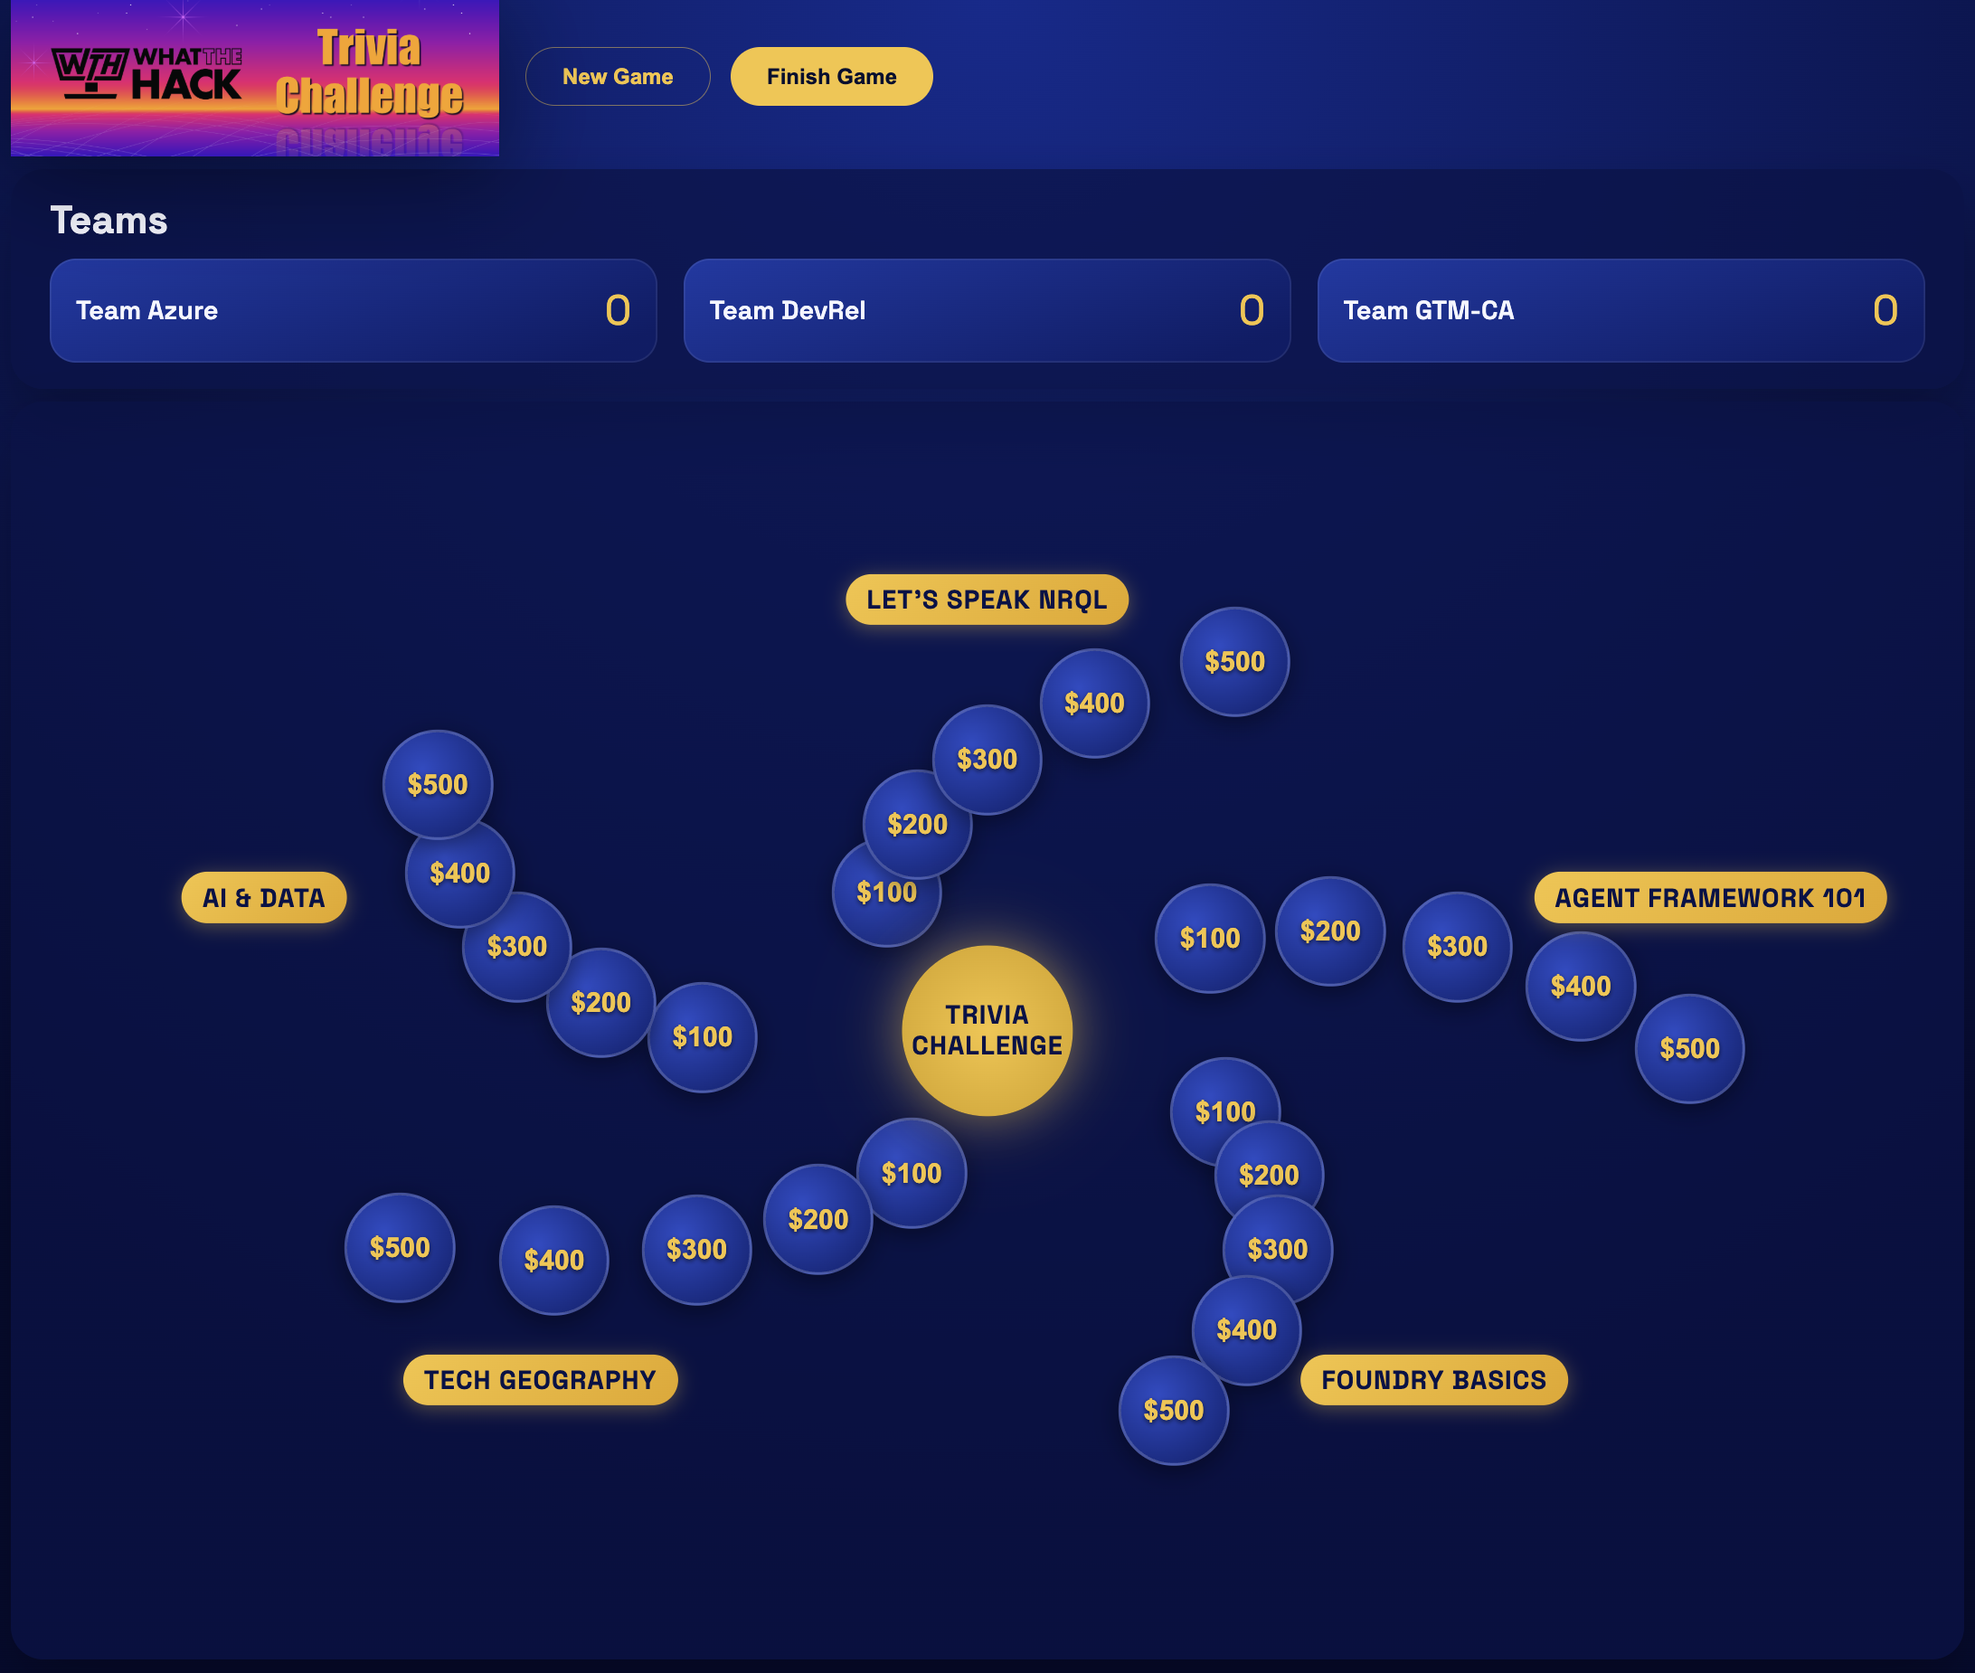
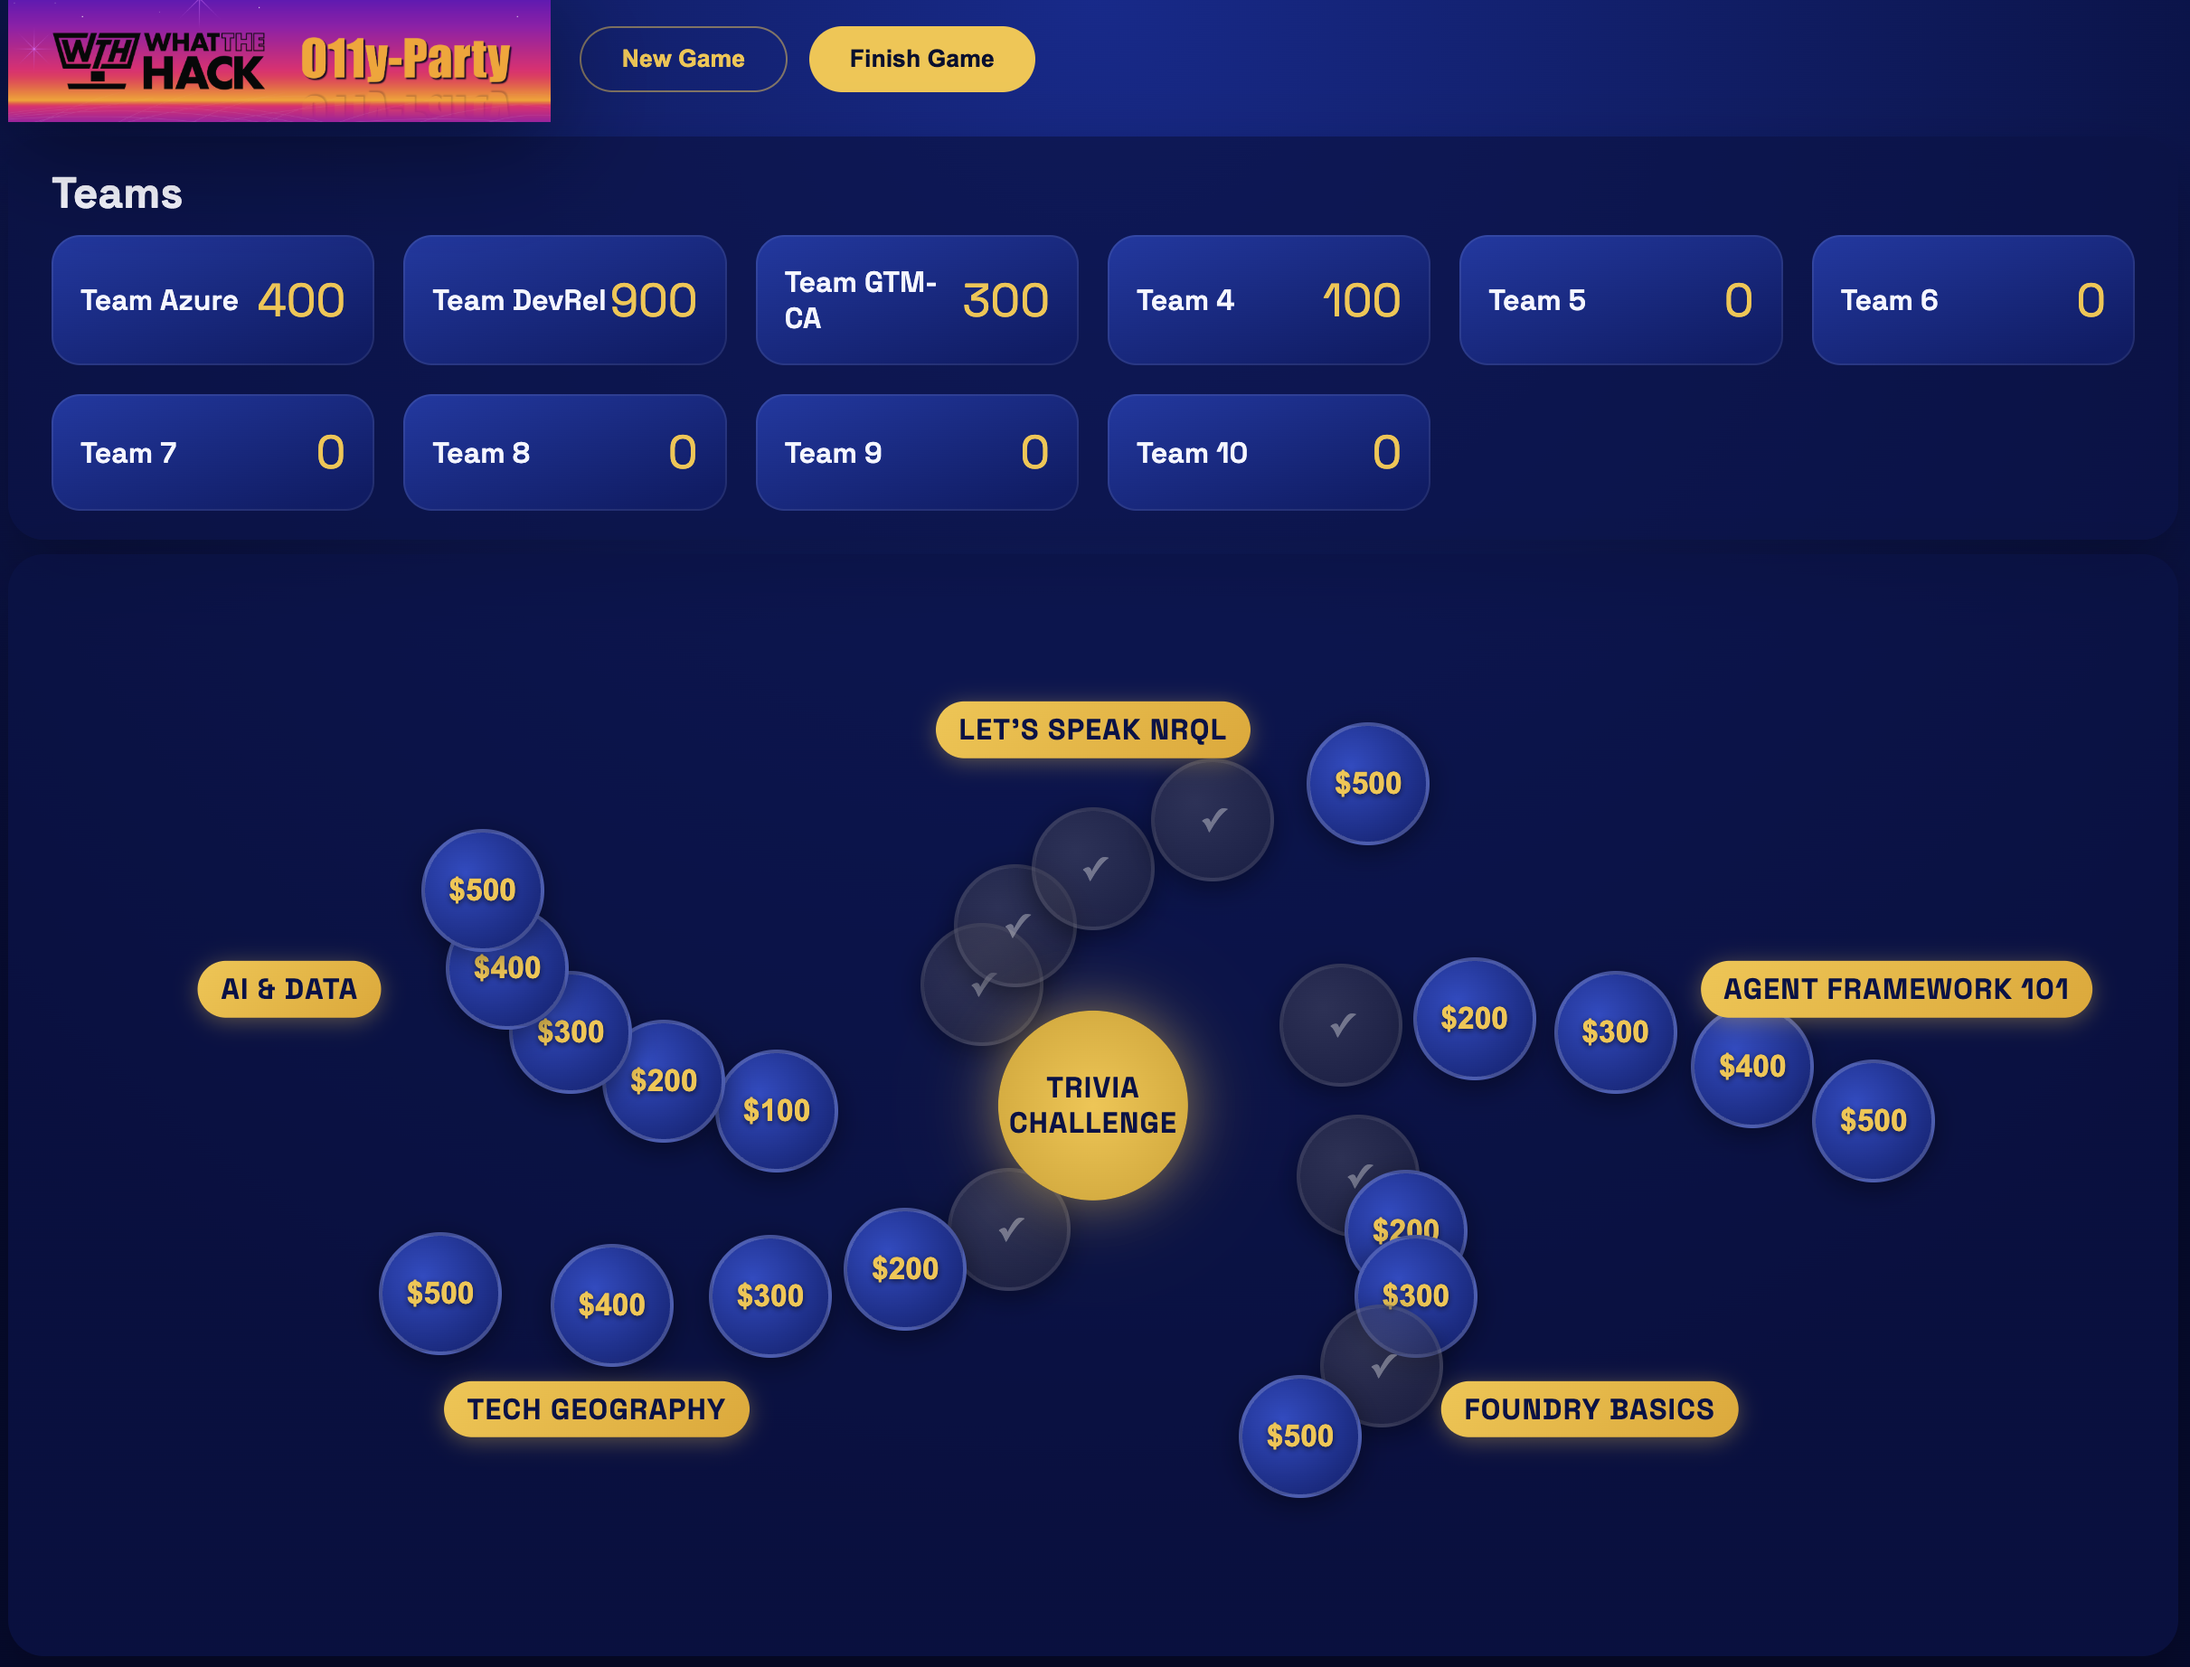
Adjusting name to O11y-Party

Changed region(s): [[0.0934, 0.34, 0.9652, 0.8964], [0.0, 0.0, 0.9652, 0.3091], [0.0311, 0.9892, 0.9652, 1.0]]

diff --git a/wwwroot/newrelic.js b/wwwroot/newrelic.js
@@ -1,4 +1,4 @@
-// New Relic Browser monitoring script for real user monitoring (RUM) and custom attributes for WTH Trivia Challenge game
+// New Relic Browser monitoring script for real user monitoring (RUM) and custom attributes for WTH O11y-Party game
 // Copy and paste the code from your New Relic Browser monitoring script here, and ensure that the 'newrelic' object is available for use in your application
 
 // Record the team name and score as custom attributes in New Relic for better insights into user interactions and game performance

diff --git a/Tests/WthTriviaChallenge.Tests/StarterTests.cs b/Tests/WthTriviaChallenge.Tests/StarterTests.cs
@@ -12,7 +12,7 @@ public class StarterTests : PageTest
     {
         await Page.GotoAsync(AppUrl);
 
-        await Expect(Page).ToHaveTitleAsync("WTH Trivia Challenge");
+        await Expect(Page).ToHaveTitleAsync("WTH O11y-Party");
         await Expect(Page.Locator(".wth-logo")).ToBeVisibleAsync();
     }
 }

diff --git a/README.md b/README.md
@@ -1,6 +1,6 @@
-# WhatTheHack - Trivia Challenge
+# WhatTheHack - O11y-Party
 
-![What The Hack - Trivia Challenge](./wwwroot/images/WTH-TriviaChallenge.png)
+![What The Hack - O11y-Party](./wwwroot/images/WTH-TriviaChallenge.png)
 
 This is a simple trivia-style game built with .NET 10 and ASP.NET Core Blazor.
 
